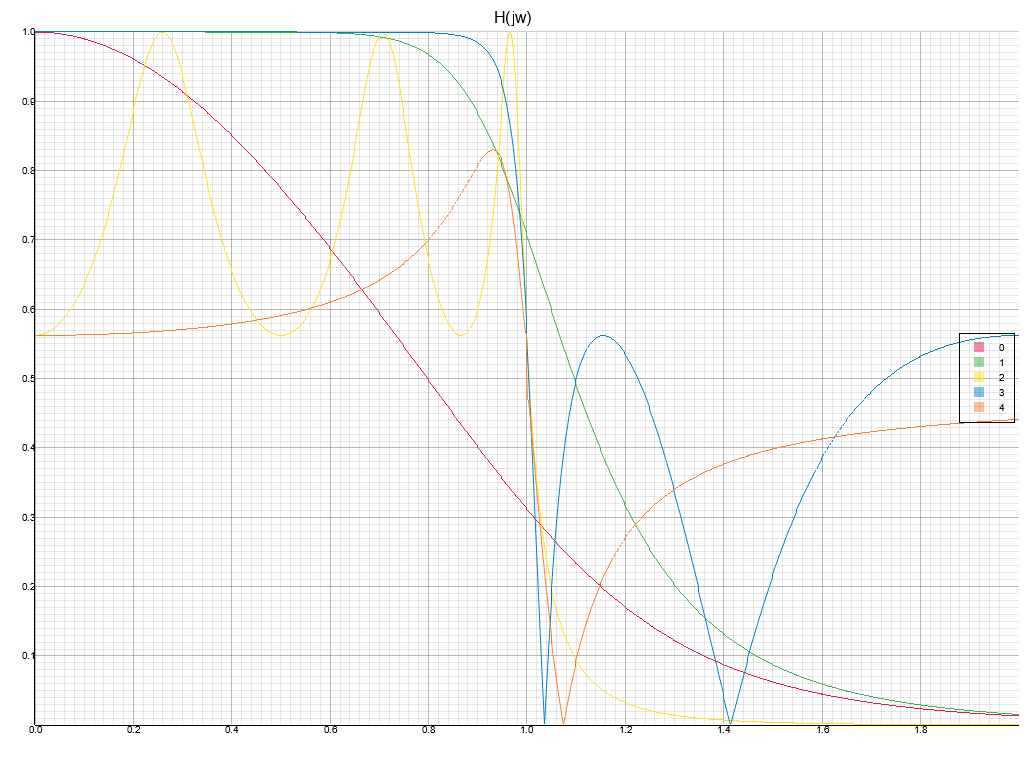
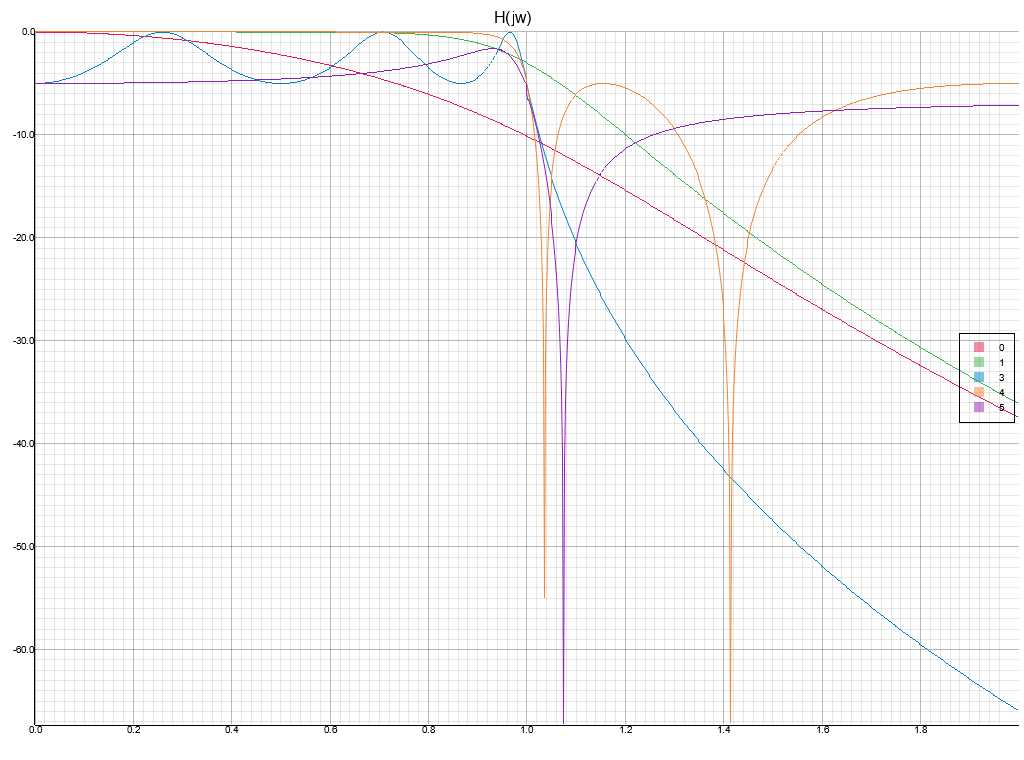
Rename cohere to mscohere

Changed region(s): [[0.0, 0.0303, 1.0, 0.9684]]

diff --git a/src/lib.rs b/src/lib.rs
@@ -62,35 +62,33 @@ mod tests
     use linspace::LinspaceArray;
     use num::Complex;
 
-    use crate::{plot, BesselAP, BesselF, ButtAP, Butter, Cheb1AP, Cheb2AP, EllipAP, FilterGenType, FreqS, FreqZ, Tf, Zpk};
+    use crate::{plot, BesselAP, BesselF, ButtAP, Butter, Cheb1AP, Cheb2AP, EllipAP, FilterGenPlane, FilterGenType, FreqS, FreqZ, RealFreqZ, Tf, Zpk};
 
     #[test]
     fn testt()
     {
-        let b1 = [1.0, 3.0];
-        let a1 = [1.0, 0.5];
+        let fs = 1e3f64;
+        let f_p = 50.0;
+        let f_s = 10.0;
+        let dp = 3.0;
+        let ds = 80.0;
 
-        let h1 = Tf::new(b1, a1);
-        
-        let b2 = [3.0, 1.0];
-        let a2 = [1.0, 0.5];
-
-        let h2 = Tf::new(b2, a2);
+        let (n, wn, _, t) = crate::buttord([f_p], [f_s], dp, ds, FilterGenPlane::Z { sampling_frequency: Some(fs) })
+            .unwrap();
+        let ba = Tf::butter(n, wn, t, FilterGenPlane::Z { sampling_frequency: None })
+            .unwrap();
 
         const N: usize = 1024;
-        let (h1f, w): ([_; N], _) = h1.freqz(());
-        let (h2f, _) = h2.freqz(());
+        let (h, w): ([_; N], _) = ba.real_freqz(());
 
-        plot::plot_curves("|H(e^jw)|", "plots_temp/temp.png", [&w.zip(h1f.map(|h| h.norm())), &w.zip(h2f.map(|h| h.norm()))])
-            .unwrap();
-        plot::plot_curves("<H(e^jw)", "plots_temp/temp_phase.png", [&w.zip(h1f.map(|h| h.arg())), &w.zip(h2f.map(|h| h.arg()))])
-            .unwrap();
+        plot::plot_curves("H(e^jw)", "temp/butter_hf.png", [&w.zip(h.map(|h| 10.0*h.norm_sqr().log10()))])
+            .unwrap()
     }
 
     #[test]
     fn test_ap()
     {
-        let fs = 2.0;
+        let fs = 2.0f64;
         let o = 6;
         let h_bessel = Zpk::besselap(o);
         let h_butter = Zpk::buttap(o);
@@ -108,11 +106,11 @@ mod tests
 
         plot::plot_curves("H(jw)", "plots/h_s_ap.png",
             [
-                &w.zip(h_f_bessel.map(|h| h.norm())),
-                &w.zip(h_f_butter.map(|h| h.norm())),
-                &w.zip(h_f_cheb1.map(|h| h.norm())),
-                &w.zip(h_f_cheb2.map(|h| h.norm())),
-                &w.zip(h_f_ellip.map(|h| h.norm())),
+                &w.zip(h_f_bessel.map(|h| 10.0*h.norm_sqr().log10())),
+                &w.zip(h_f_butter.map(|h| 10.0*h.norm_sqr().log10())),
+                &w.zip(h_f_cheb1.map(|h| 10.0*h.norm_sqr().log10())),
+                &w.zip(h_f_cheb2.map(|h| 10.0*h.norm_sqr().log10())),
+                &w.zip(h_f_ellip.map(|h| 10.0*h.norm_sqr().log10())),
             ]
         ).unwrap();
     }

diff --git a/src/analysis/mscohere.rs b/src/analysis/mscohere.rs
@@ -3,7 +3,7 @@ use option_trait::{Maybe, NotVoid, StaticMaybe};
 
 use crate::{List, MaybeLenEq, PWelch, PWelchDetrend};
 
-pub trait Cohere<T, Y, YY, W, WW, WWW, WL, N, S>: List<T> + MaybeLenEq<YY, true>
+pub trait MsCohere<T, Y, YY, W, WW, WWW, WL, N, S>: List<T> + MaybeLenEq<YY, true>
 where
     T: ComplexFloat,
     W: ComplexFloat<Real = T::Real>,
@@ -15,8 +15,8 @@ where
     N: Maybe<usize>,
     S: Maybe<bool>
 {
-    #[doc(alias = "mscohere")]
-    fn cohere<O, FS, CONF, DT, F>(
+    #[doc(alias = "cohere")]
+    fn mscohere<O, FS, CONF, DT, F>(
         self,
         y: YY,
         window: WWW,
@@ -37,7 +37,7 @@ where
         F: StaticMaybe<WW::Mapped<T::Real>>;
 }
 
-impl<T, L, Y, YY, W, WW, WWW, WL, N, S> Cohere<T, Y, YY, W, WW, WWW, WL, N, S> for L
+impl<T, L, Y, YY, W, WW, WWW, WL, N, S> MsCohere<T, Y, YY, W, WW, WWW, WL, N, S> for L
 where
     L: List<T> + MaybeLenEq<YY, true>,
     T: ComplexFloat,
@@ -54,7 +54,7 @@ where
     <YY::MaybeSome as StaticMaybe<YY::Some>>::Maybe<WW::Mapped<Complex<<T as ComplexFloat>::Real>>>: NotVoid,
     <YY::MaybeSome as StaticMaybe<YY::Some>>::Maybe<WW::Mapped<<T as ComplexFloat>::Real>>: NotVoid
 {
-    fn cohere<O, FS, CONF, DT, F>(
+    fn mscohere<O, FS, CONF, DT, F>(
         self,
         y: YY,
         window: WWW,
@@ -85,7 +85,7 @@ mod test
     use array_math::ArrayOps;
     use rand::distributions::uniform::SampleRange;
 
-    use crate::{plot, Cheby1, Cheby2, Filter, FilterGenPlane, RealCohere, RealFreqZ, Tf};
+    use crate::{plot, Cheby1, Cheby2, Filter, FilterGenPlane, RealMsCohere, RealFreqZ, Tf};
 
     #[test]
     fn test()
@@ -104,10 +104,10 @@ mod test
         let dy = Tf::cheby1(n, rp, wp, t, FilterGenPlane::Z { sampling_frequency: None })
             .unwrap();
 
-        let x = dx.filter(r.clone(), ());
+        let x = dx.filter(r.as_slice(), ());
         let y = dy.filter(r, ());
 
-        let (cxy, fc): (Vec<_>, Vec<_>) = x.real_cohere(y, (), 512, 500, 2048, (), (), (), (), false);
+        let (cxy, fc): (Vec<_>, Vec<_>) = x.real_mscohere(y, (), 512, 500, 2048, (), (), (), (), false);
 
         const M: usize = 1024;
         let (qx, f): ([_; M], _) = dx.real_freqz(());

diff --git a/src/analysis/real_mscohere.rs b/src/analysis/real_mscohere.rs
@@ -1,9 +1,9 @@
 use num::{traits::FloatConst, Float, Zero};
 use option_trait::{Maybe, StaticMaybe};
 
-use crate::{Cohere, List, ListOrSingle, MaybeLenEq, PWelchDetrend};
+use crate::{MsCohere, List, ListOrSingle, MaybeLenEq, PWelchDetrend};
 
-pub trait RealCohere<T, YY, WW, WWW, WL, N, S>: List<T> + MaybeLenEq<YY, true>
+pub trait RealMsCohere<T, YY, WW, WWW, WL, N, S>: List<T> + MaybeLenEq<YY, true>
 where
     T: Float + FloatConst,
     YY: List<T>,
@@ -14,8 +14,8 @@ where
     S: Maybe<bool>,
     WW::Mapped<T>: List<T>
 {
-    #[doc(alias = "real_mscohere")]
-    fn real_cohere<O, FS, CONF, DT, F>(
+    #[doc(alias = "real_cohere")]
+    fn real_mscohere<O, FS, CONF, DT, F>(
         self,
         y: YY,
         window: WWW,
@@ -37,7 +37,7 @@ where
         F::Maybe<WW::Mapped<T>>: Sized;
 }
 
-impl<T, L, YY, WW, WWW, WL, N, S> RealCohere<T, YY, WW, WWW, WL, N, S> for L
+impl<T, L, YY, WW, WWW, WL, N, S> RealMsCohere<T, YY, WW, WWW, WL, N, S> for L
 where
     L: List<T> + MaybeLenEq<YY, true>,
     T: Float + FloatConst,
@@ -48,9 +48,9 @@ where
     N: Maybe<usize>,
     S: Maybe<bool>,
     WW::Mapped<T>: List<T>,
-    Self: Cohere<T, T, YY, T, WW, WWW, WL, N, S>
+    Self: MsCohere<T, T, YY, T, WW, WWW, WL, N, S>
 {
-    fn real_cohere<O, FS, CONF, DT, F>(
+    fn real_mscohere<O, FS, CONF, DT, F>(
         self,
         y: YY,
         window: WWW,
@@ -71,7 +71,7 @@ where
         F: StaticMaybe<<WW::Mapped<T> as List<T>>::ResizedList<{WW::WIDTH/2 + 1}>>,
         F::Maybe<WW::Mapped<T>>: Sized
     {
-        let (coher, f) = self.cohere::<_, _, _, _, F::Maybe<WW::Mapped<T>>>(
+        let (coher, f) = self.mscohere::<_, _, _, _, F::Maybe<WW::Mapped<T>>>(
             y, window, window_length, overlap, nfft, sampling_frequency, confidence, detrend, sloppy, shift
         );
 

diff --git a/src/analysis/pwelch.rs b/src/analysis/pwelch.rs
@@ -5,7 +5,7 @@ use num::{complex::ComplexFloat, traits::FloatConst, Complex, Float, NumCast, Ze
 use option_trait::{Maybe, NotVoid, StaticMaybe};
 use array_math::SliceMath;
 
-use crate::{util, window::{Hamming, WindowGen, WindowRange}, List, Lists, MaybeLenEq, MaybeList};
+use crate::{util, window::{Hamming, WindowGen, WindowRange}, List, MaybeLenEq, MaybeList};
 
 #[derive(Debug, Clone, Copy, PartialEq, Eq)]
 pub enum PWelchDetrend

diff --git a/src/analysis/mod.rs b/src/analysis/mod.rs
@@ -1,7 +1,6 @@
 moddef::moddef!(
     flat(pub) mod {
         cceps,
-        cohere,
         filternorm,
         filtic,
         filtord,
@@ -16,9 +15,10 @@ moddef::moddef!(
         isminphase,
         isstable,
         movingrms,
+        mscohere,
         pwelch,
-        real_cohere,
         real_freqz,
+        real_mscohere,
         real_pwelch,
         real_specgram,
         specgram,
